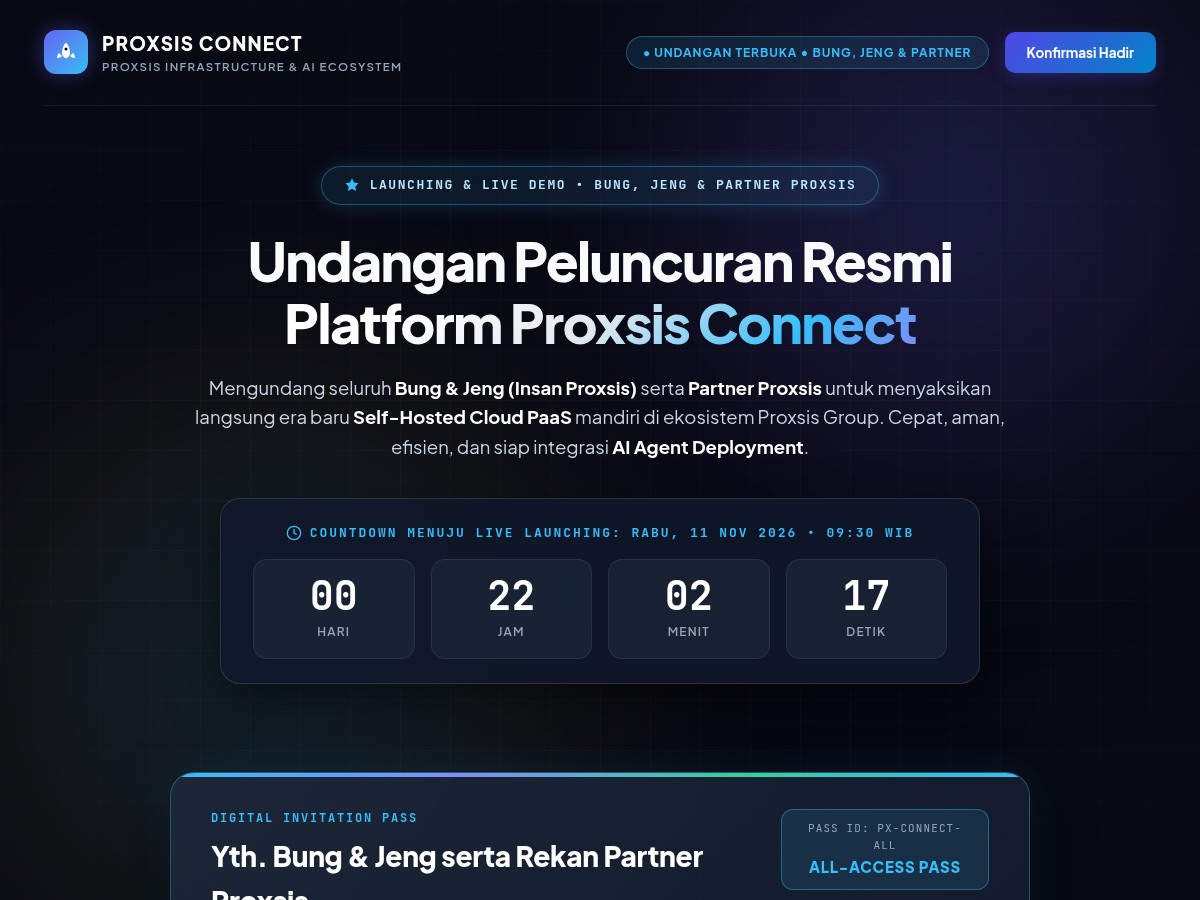
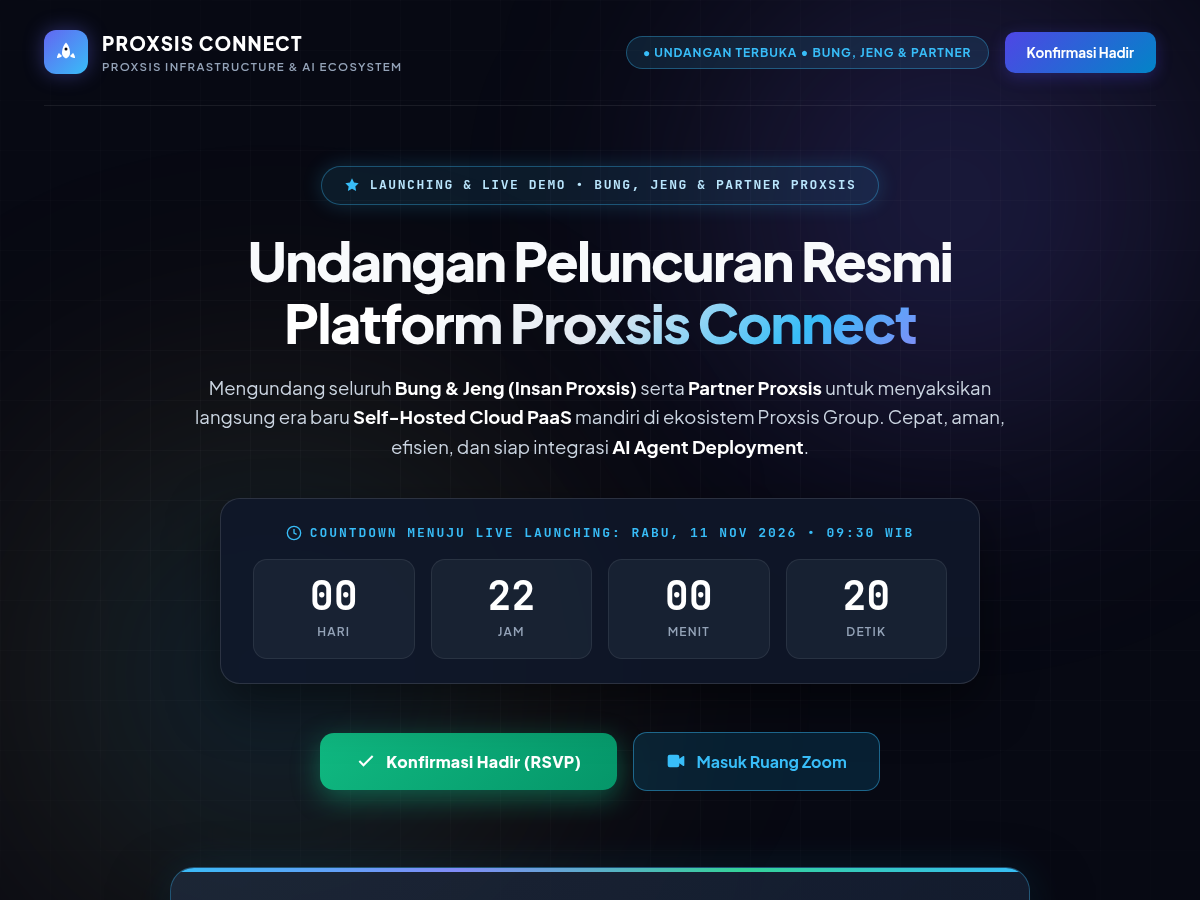
feat: add prominent centered Konfirmasi Hadir (RSVP) & Zoom CTA buttons

Changed region(s): [[0.1233, 0.8089, 0.8633, 1.0], [0.7092, 0.6222, 0.74, 0.6844], [0.555, 0.6533, 0.6167, 0.6844]]

diff --git a/index.html b/index.html
@@ -235,6 +235,82 @@
       font-weight: 700;
     }
 
+    /* CENTER HERO CTA BUTTONS */
+    .hero-cta-group {
+      display: flex;
+      align-items: center;
+      justify-content: center;
+      gap: 16px;
+      margin: 28px auto 36px auto;
+      flex-wrap: wrap;
+    }
+
+    .btn-hero-rsvp {
+      display: inline-flex;
+      align-items: center;
+      gap: 10px;
+      background: linear-gradient(135deg, #10b981 0%, #059669 100%);
+      color: #ffffff;
+      padding: 16px 36px;
+      border-radius: 14px;
+      font-size: 16px;
+      font-weight: 800;
+      text-decoration: none;
+      box-shadow: 0 8px 28px rgba(16, 185, 129, 0.45);
+      transition: all 0.25s ease;
+      letter-spacing: 0.02em;
+    }
+
+    .btn-hero-rsvp:hover {
+      transform: translateY(-3px) scale(1.02);
+      box-shadow: 0 12px 36px rgba(16, 185, 129, 0.65);
+      color: #ffffff;
+    }
+
+    .btn-hero-zoom {
+      display: inline-flex;
+      align-items: center;
+      gap: 10px;
+      background: rgba(14, 165, 233, 0.15);
+      border: 1px solid rgba(56, 189, 248, 0.45);
+      color: #38bdf8;
+      padding: 16px 32px;
+      border-radius: 14px;
+      font-size: 16px;
+      font-weight: 700;
+      text-decoration: none;
+      transition: all 0.25s ease;
+      backdrop-filter: blur(10px);
+    }
+
+    .btn-hero-zoom:hover {
+      background: #0284c7;
+      color: #ffffff;
+      transform: translateY(-2px);
+      box-shadow: 0 8px 24px rgba(2, 132, 199, 0.45);
+    }
+
+    .btn-ticket-rsvp {
+      display: inline-flex;
+      align-items: center;
+      gap: 10px;
+      background: rgba(16, 185, 129, 0.15);
+      border: 1px solid rgba(52, 211, 153, 0.4);
+      color: #34d399;
+      padding: 12px 28px;
+      border-radius: 12px;
+      font-size: 14.5px;
+      font-weight: 700;
+      text-decoration: none;
+      transition: all 0.2s ease;
+    }
+
+    .btn-ticket-rsvp:hover {
+      background: #10b981;
+      color: #ffffff;
+      transform: translateY(-2px);
+    }
+
     /* COUNTDOWN SECTION */
     .countdown-container {
       background: rgba(15, 23, 42, 0.85);
@@ -989,6 +1065,22 @@
             <div class="countdown-label">Detik</div>
           </div>
         </div>
+      </div>
+
+      <!-- CENTERED HERO CTA BUTTONS -->
+      <div class="hero-cta-group">
+        <a href="#rsvp" class="btn-hero-rsvp">
+          <svg width="20" height="20" viewBox="0 0 24 24" fill="none" stroke="currentColor" stroke-width="2.5">
+            <polyline points="20 6 9 17 4 12"></polyline>
+          </svg>
+          <span>Konfirmasi Hadir (RSVP)</span>
+        </a>
+        <a href="https://zoom.us/j/89234729188?pwd=PROXSISCONNECT2026" target="_blank" class="btn-hero-zoom">
+          <svg width="20" height="20" viewBox="0 0 24 24" fill="currentColor">
+            <path d="M4.5 4.5A2.5 2.5 0 0 0 2 7v10a2.5 2.5 0 0 0 2.5 2.5h9a2.5 2.5 0 0 0 2.5-2.5v-2.2l4.2 2.8A1 1 0 0 0 22 17V7a1 1 0 0 0-1.8-.6L16 9.2V7A2.5 2.5 0 0 0 13.5 4.5h-9z"/>
+          </svg>
+          <span>Masuk Ruang Zoom</span>
+        </a>
       </div>
     </header>
 

diff --git a/undangan_launching.html b/undangan_launching.html
@@ -235,6 +235,82 @@
       font-weight: 700;
     }
 
+    /* CENTER HERO CTA BUTTONS */
+    .hero-cta-group {
+      display: flex;
+      align-items: center;
+      justify-content: center;
+      gap: 16px;
+      margin: 28px auto 36px auto;
+      flex-wrap: wrap;
+    }
+
+    .btn-hero-rsvp {
+      display: inline-flex;
+      align-items: center;
+      gap: 10px;
+      background: linear-gradient(135deg, #10b981 0%, #059669 100%);
+      color: #ffffff;
+      padding: 16px 36px;
+      border-radius: 14px;
+      font-size: 16px;
+      font-weight: 800;
+      text-decoration: none;
+      box-shadow: 0 8px 28px rgba(16, 185, 129, 0.45);
+      transition: all 0.25s ease;
+      letter-spacing: 0.02em;
+    }
+
+    .btn-hero-rsvp:hover {
+      transform: translateY(-3px) scale(1.02);
+      box-shadow: 0 12px 36px rgba(16, 185, 129, 0.65);
+      color: #ffffff;
+    }
+
+    .btn-hero-zoom {
+      display: inline-flex;
+      align-items: center;
+      gap: 10px;
+      background: rgba(14, 165, 233, 0.15);
+      border: 1px solid rgba(56, 189, 248, 0.45);
+      color: #38bdf8;
+      padding: 16px 32px;
+      border-radius: 14px;
+      font-size: 16px;
+      font-weight: 700;
+      text-decoration: none;
+      transition: all 0.25s ease;
+      backdrop-filter: blur(10px);
+    }
+
+    .btn-hero-zoom:hover {
+      background: #0284c7;
+      color: #ffffff;
+      transform: translateY(-2px);
+      box-shadow: 0 8px 24px rgba(2, 132, 199, 0.45);
+    }
+
+    .btn-ticket-rsvp {
+      display: inline-flex;
+      align-items: center;
+      gap: 10px;
+      background: rgba(16, 185, 129, 0.15);
+      border: 1px solid rgba(52, 211, 153, 0.4);
+      color: #34d399;
+      padding: 12px 28px;
+      border-radius: 12px;
+      font-size: 14.5px;
+      font-weight: 700;
+      text-decoration: none;
+      transition: all 0.2s ease;
+    }
+
+    .btn-ticket-rsvp:hover {
+      background: #10b981;
+      color: #ffffff;
+      transform: translateY(-2px);
+    }
+
     /* COUNTDOWN SECTION */
     .countdown-container {
       background: rgba(15, 23, 42, 0.85);
@@ -989,6 +1065,22 @@
             <div class="countdown-label">Detik</div>
           </div>
         </div>
+      </div>
+
+      <!-- CENTERED HERO CTA BUTTONS -->
+      <div class="hero-cta-group">
+        <a href="#rsvp" class="btn-hero-rsvp">
+          <svg width="20" height="20" viewBox="0 0 24 24" fill="none" stroke="currentColor" stroke-width="2.5">
+            <polyline points="20 6 9 17 4 12"></polyline>
+          </svg>
+          <span>Konfirmasi Hadir (RSVP)</span>
+        </a>
+        <a href="https://zoom.us/j/89234729188?pwd=PROXSISCONNECT2026" target="_blank" class="btn-hero-zoom">
+          <svg width="20" height="20" viewBox="0 0 24 24" fill="currentColor">
+            <path d="M4.5 4.5A2.5 2.5 0 0 0 2 7v10a2.5 2.5 0 0 0 2.5 2.5h9a2.5 2.5 0 0 0 2.5-2.5v-2.2l4.2 2.8A1 1 0 0 0 22 17V7a1 1 0 0 0-1.8-.6L16 9.2V7A2.5 2.5 0 0 0 13.5 4.5h-9z"/>
+          </svg>
+          <span>Masuk Ruang Zoom</span>
+        </a>
       </div>
     </header>
 
